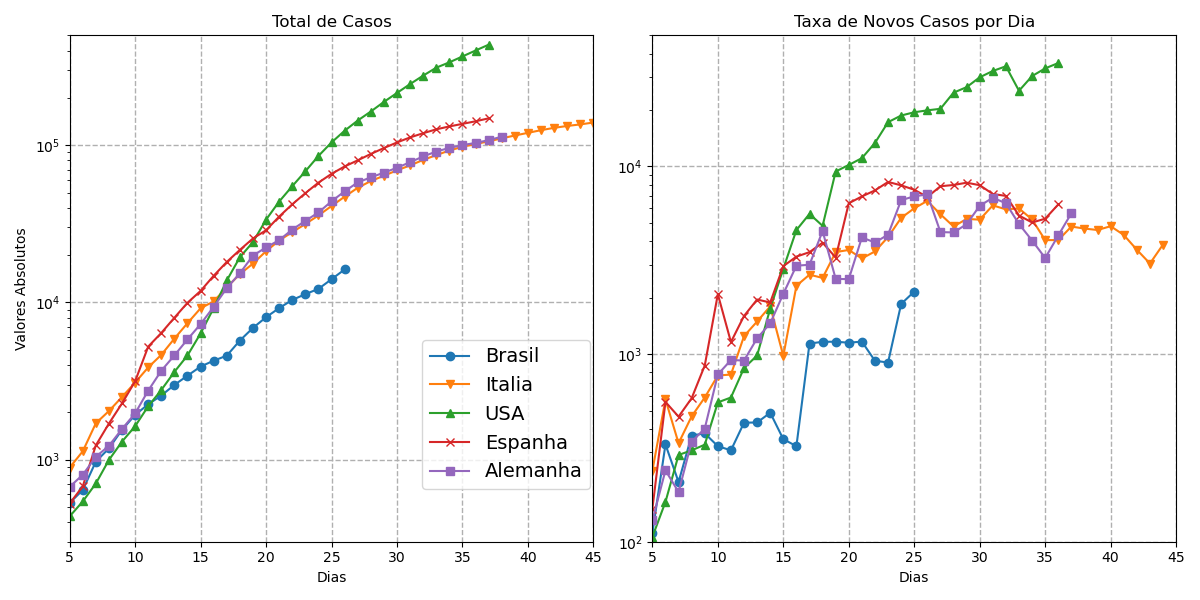
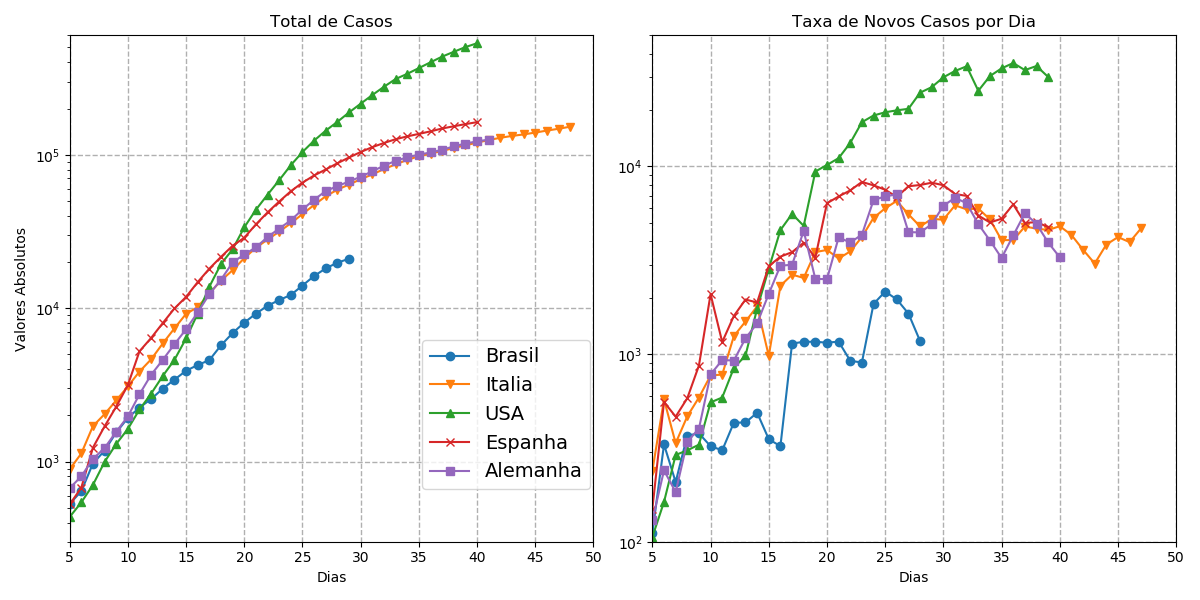
Arquivos de dados atualizados.

diff --git a/script/Main.py b/script/Main.py
@@ -71,7 +71,7 @@ def main():
 
     # ... grafico mortes
     ax3.set_xlim(tdias0, tdias)
-    ax3.set_ylim(1,20000)
+    ax3.set_ylim(1,25000)
     ax4.set_xlim(tdias0,tdias)
     ax4.set_ylim(1, 2500)
     ax3.set_xlabel('Dias')
@@ -102,10 +102,10 @@ def main():
     fig4.legend(bbox_to_anchor=(0.35, 0.85))
     fig4.suptitle('Porcentagem de Mortes')
 
- #  fig1.savefig('fig/casos.png')
-#   fig2.savefig('fig/mortes.png')
-#   fig4.savefig('fig/porcentagem_de_mortos.png')
-    plt.show()
+    fig1.savefig('fig/casos.png')
+    fig2.savefig('fig/mortes.png')
+    fig4.savefig('fig/porcentagem_de_mortos.png')
+#    plt.show()
 
 if __name__ == "__main__":
     main()

diff --git a/README.md b/README.md
@@ -12,7 +12,7 @@ Gráficos da evolução dos casos e mortes do covid-19. Todos os gráficos inici
 
 ## Ultima atualização
 
-10/04/2020
+11/04/2020
 
 ## Gráficos
 
